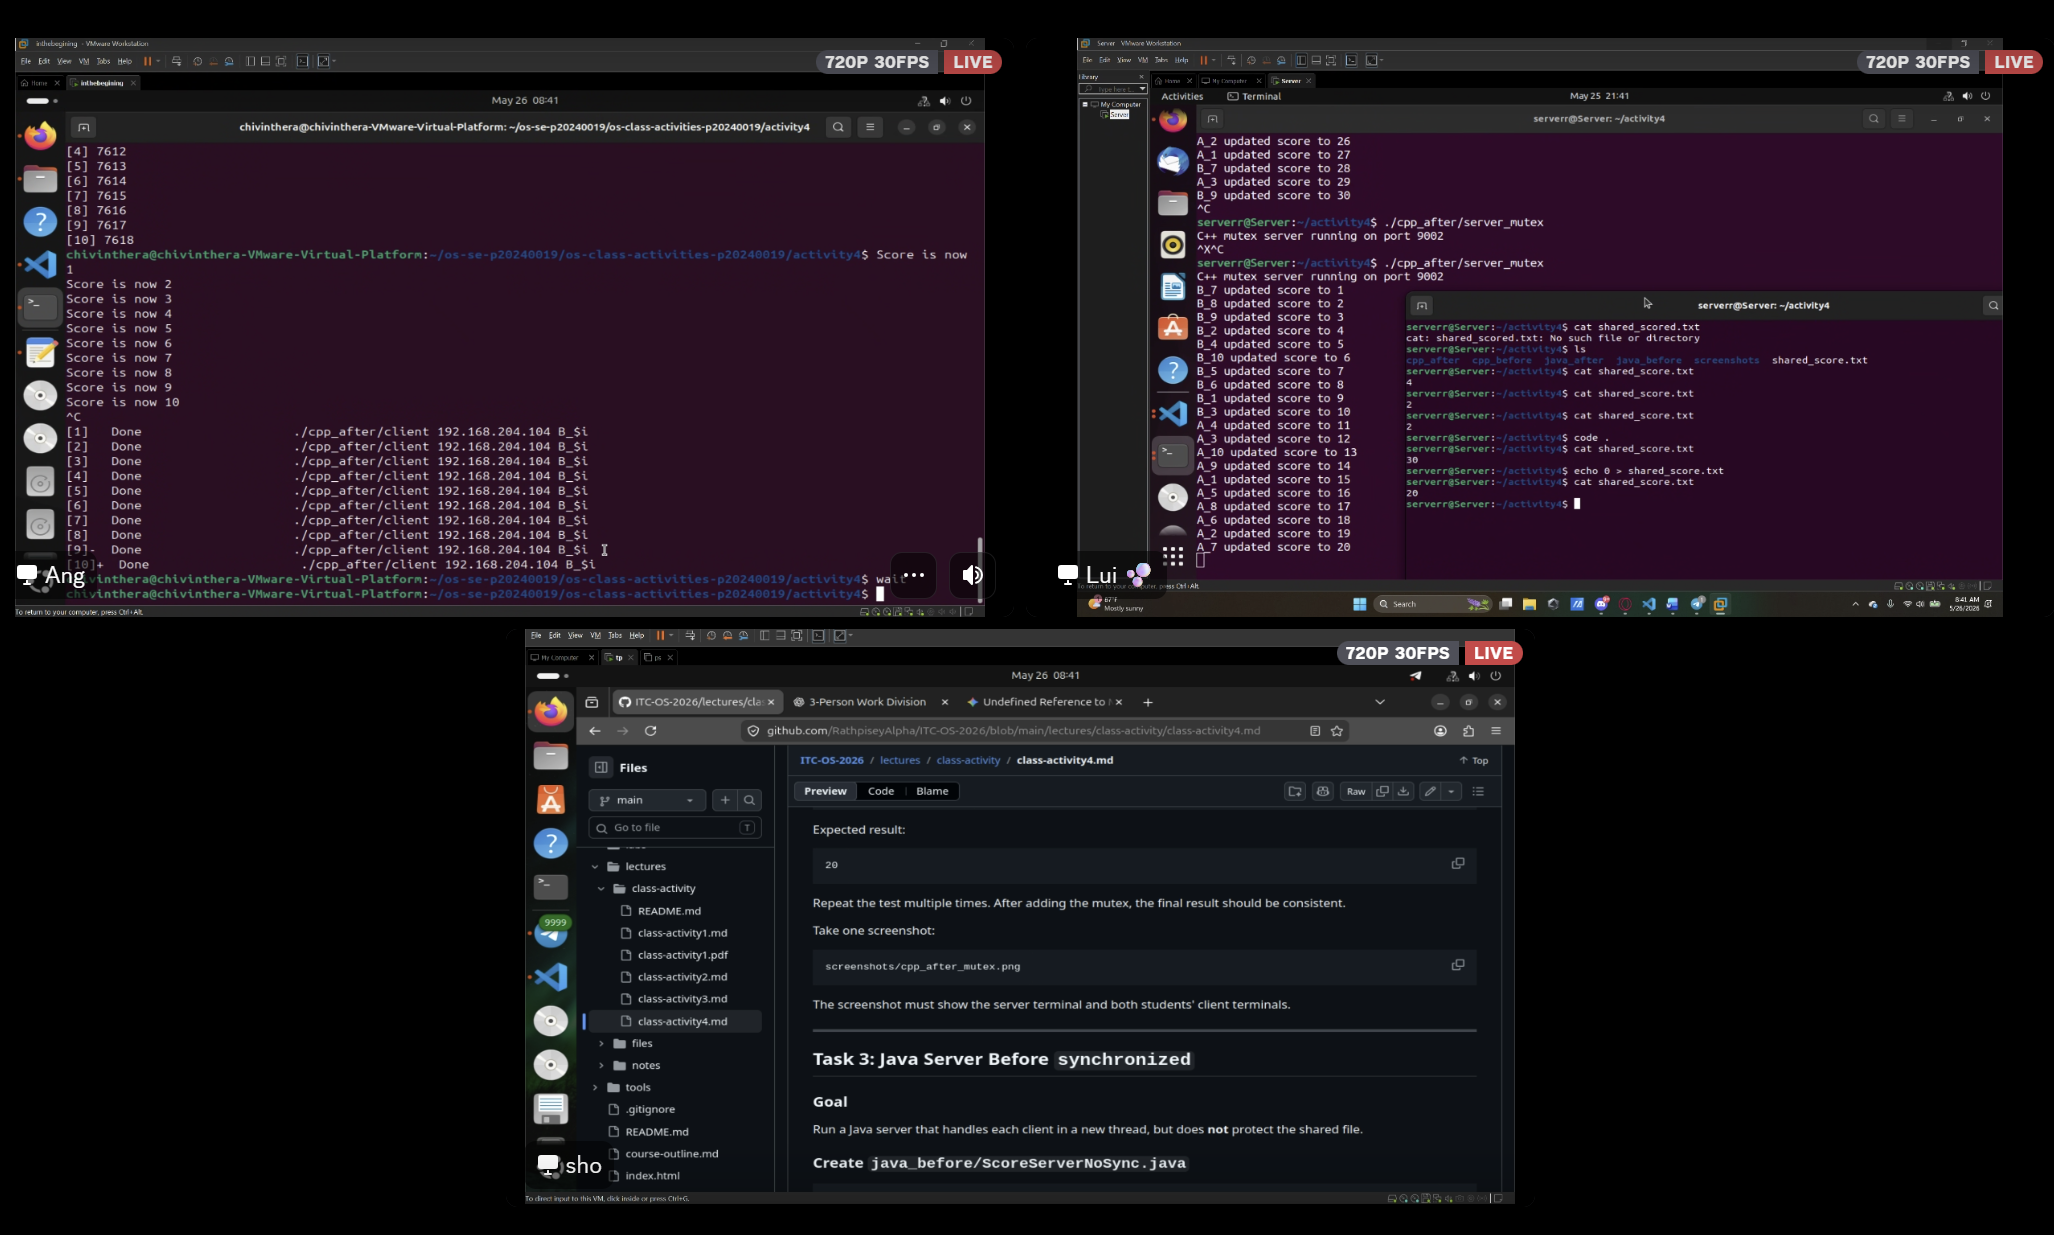
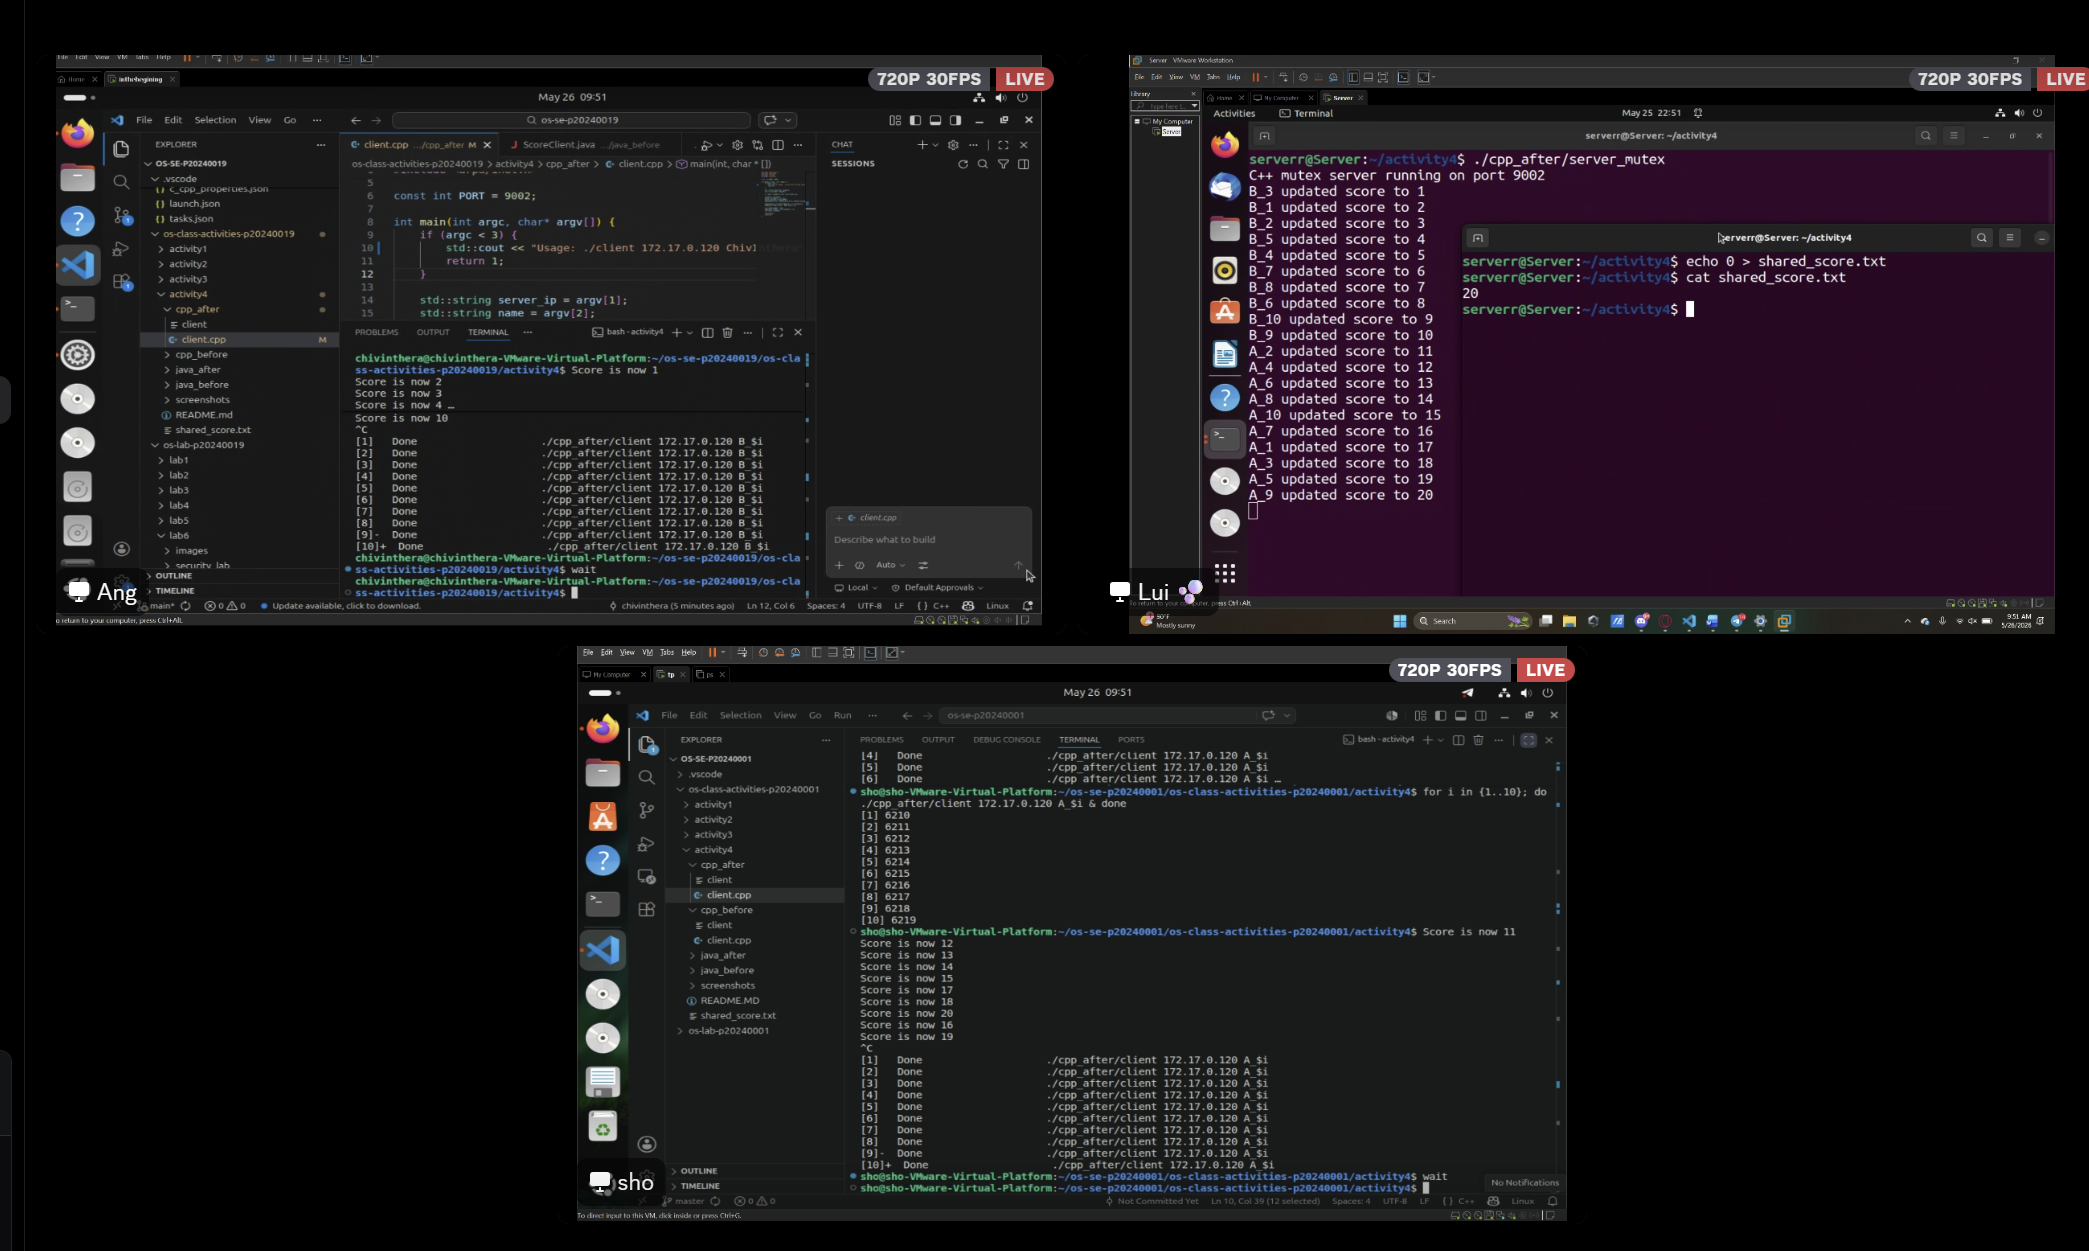
fix the screenshot

Changed region(s): [[0.0, 0.0308, 1.0, 0.9846]]

diff --git a/os-class-activities-p20240019/activity4/cpp_after/client.cpp b/os-class-activities-p20240019/activity4/cpp_after/client.cpp
@@ -7,7 +7,7 @@ const int PORT = 9002;
 
 int main(int argc, char* argv[]) {
     if (argc < 3) {
-        std::cout << "Usage: ./client 192.168.204.104 ChivInthera" << std::endl;
+        std::cout << "Usage: ./client 172.17.0.120 ChivInthera" << std::endl;
         return 1;
     }
 